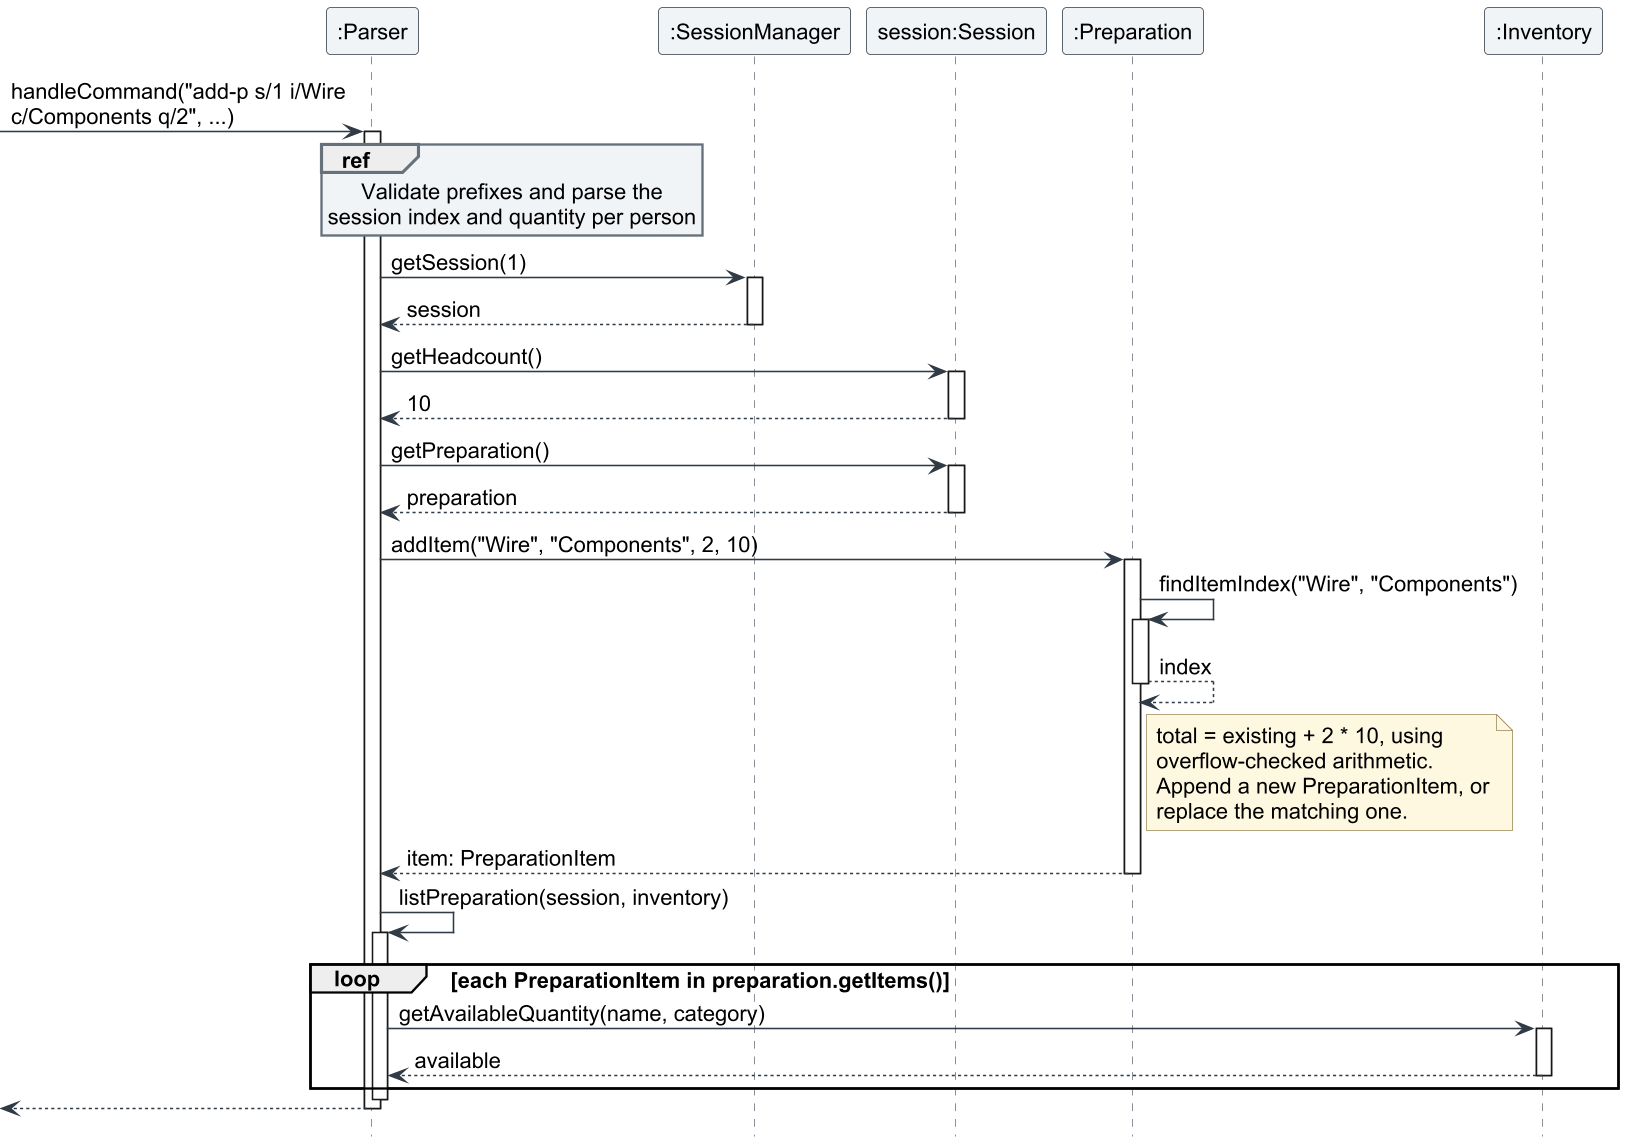
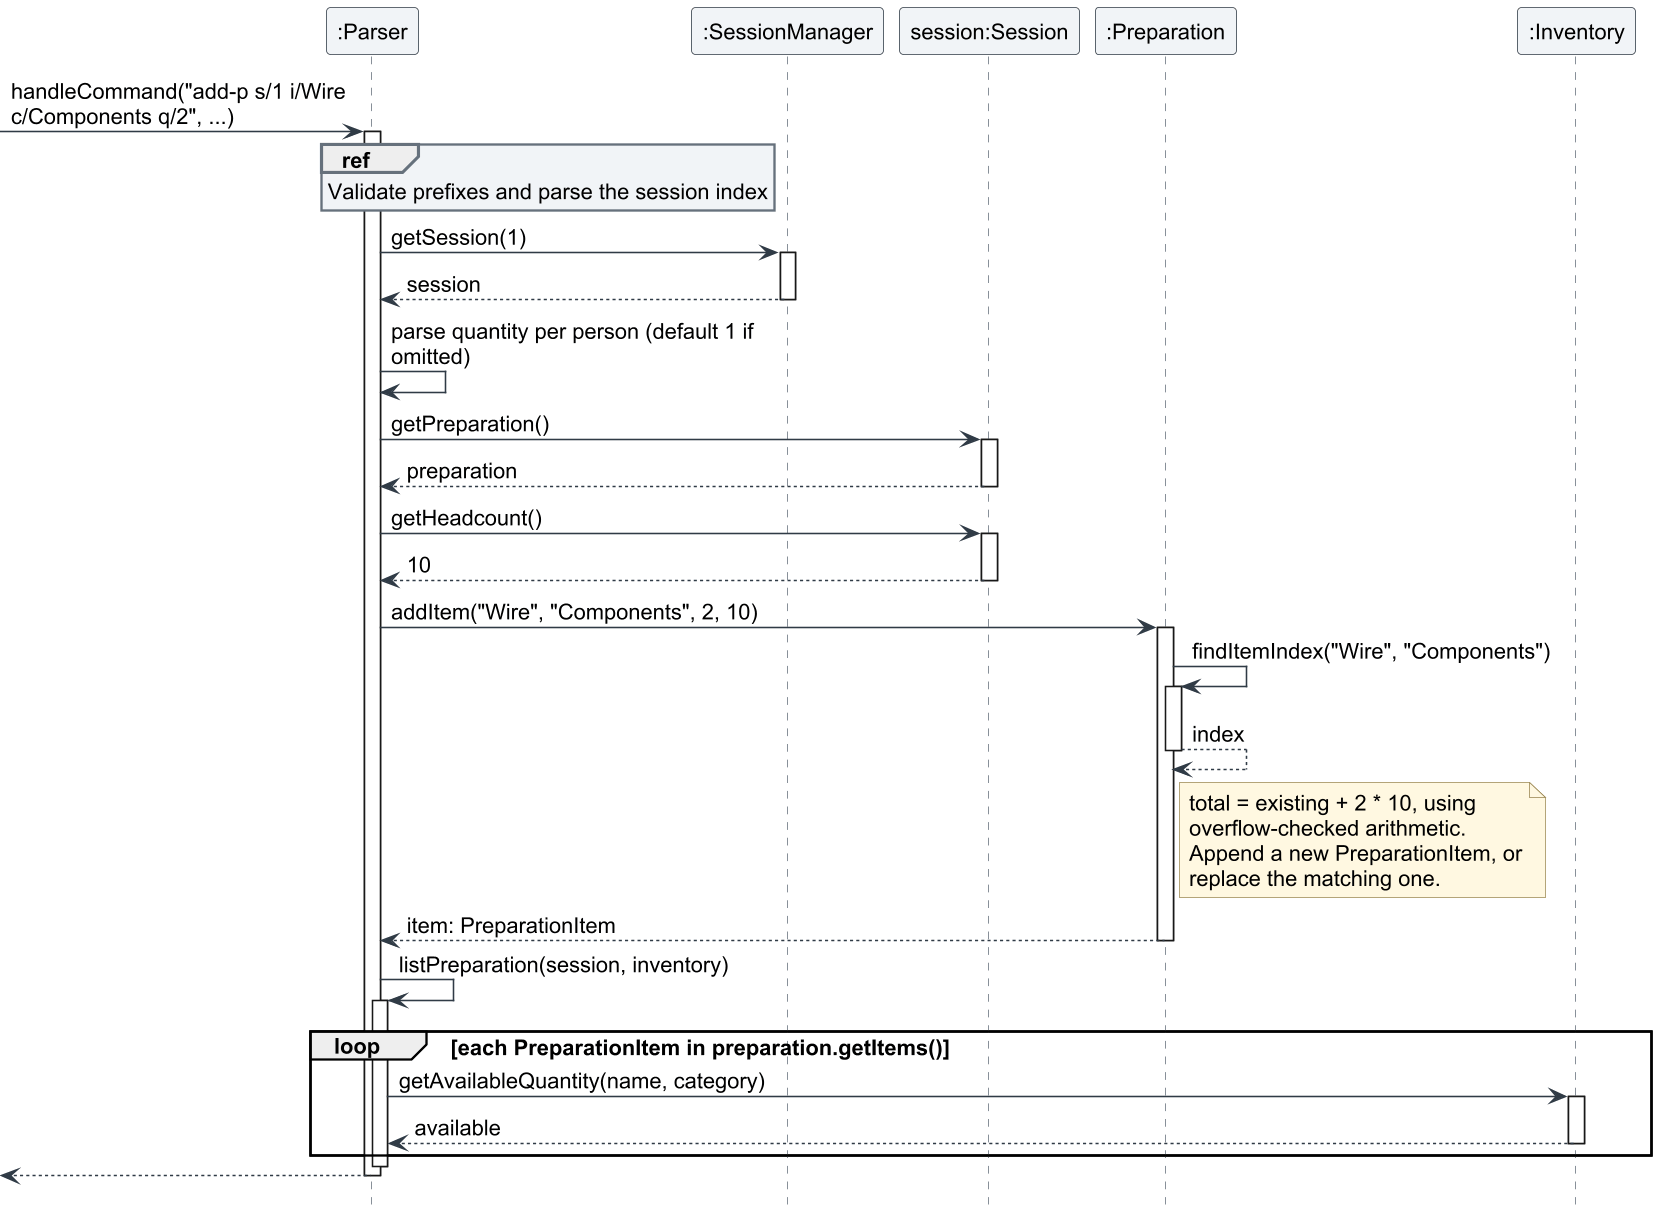
Align guides and diagrams with application behavior
The guides misstate migration support, request mutations, and collection
immutability. Some examples assume empty state despite automatic loading,
and sequence diagrams differ from the implementation's call order.

Clarify persistence, validation, and example prerequisites. Correct the
preparation and loan-return sequences and complete the UML notation so
readers can follow the implemented behavior consistently.

Validate 127 guide links and 25 code references, visually review the
regenerated diagrams, and check the diff for whitespace errors.

diff --git a/docs/DeveloperGuide.md b/docs/DeveloperGuide.md
@@ -162,9 +162,11 @@ The model is composed of domain objects and managers:
 - `AppState` groups the managers, exports snapshots, and restores complete independent model state.
 - `AppSnapshot` and its nested records describe version-2 storage values without retaining mutable model references.
 
-Managers expose operations rather than their mutable internal collections. Where a collection is returned for querying,
-the implementation returns an immutable snapshot. Domain classes maintain invariants such as positive quantities,
-nonblank names, and conflict-free sessions.
+Managers expose operations rather than their mutable internal collections. Query collections are unmodifiable
+list snapshots, so callers cannot add, remove, or reorder the manager's entries through those lists. This does
+not make every contained object immutable: retrieved sessions and requests still expose domain operations.
+Inventory queries copy mutable stock entries, and storage snapshots copy values independently. Domain classes
+maintain invariants such as positive quantities, nonblank names, and conflict-free sessions.
 
 ### 3.5. Storage component
 
@@ -680,16 +682,18 @@ Adding the same inventory entry with `add-i` would be rejected as a duplicate; i
 
 #### 4.3.4. Interactions during preparation addition
 
-The sequence below shows a successful `add-p` command after `Bob` passes the input to `Parser`. The reference frame
-summarises prefix validation and number parsing. Print statements, assertions, and logging are omitted.
+The sequence below shows a successful `add-p` command after `Bob` passes the input to `Parser`. Prefix validation
+and session-index parsing precede session lookup; per-person quantity parsing follows that lookup.
+Print statements, assertions, and logging are omitted.
 
 ![Successful preparation addition sequence diagram](images/preparation-add-sequence.png)
 
 *Figure 5: The headcount is read from the session before `addItem()` is called. After the change, `listPreparation()`
 queries inventory once per required item.*
 
-If the session index is invalid, `getSession()` throws before the preparation is touched. If the quantity is invalid
-or the new total would exceed `Integer.MAX_VALUE`, `addItem()` throws before changing its list. The overflow check uses
+If the session index is invalid, `getSession()` throws before the preparation is touched. The parser rejects invalid
+quantities before calling `addItem()`, which independently validates its inputs and rejects totals above
+`Integer.MAX_VALUE` before changing its list. The overflow check uses
 `Math.multiplyExact()` and `Math.addExact()`, so an oversized request cannot silently wrap around to a negative total.
 
 #### 4.3.5. Calculating availability and shortfalls
@@ -782,13 +786,13 @@ so all implementation diagrams share one style.
 `ContactManager` owns the list and prints confirmations, and `Parser` dispatches the commands. `delete-c` takes a
 single index on the command line, like `delete-s`.
 
-The user guide did not specify the rules below. They are design decisions made when implementing the feature and
-can be changed in `Contact` (validation) or `Parser` (`ADD_CONTACT_PREFIXES`):
+The [User Guide](UserGuide.md#add-a-contact-add-c) describes these contact rules. Their implementation belongs in
+`Contact` (validation) or `Parser` (`ADD_CONTACT_PREFIXES`):
 
 | Decision | Rule | Rationale |
 | --- | --- | --- |
 | Phone format | Digits only, no length check | Accepts local and international numbers. Rejecting separators keeps one canonical form. A length check would wrongly reject some valid numbers. |
-| Email format | Contains `@`, no whitespace | Catches obvious typos without a full email grammar. |
+| Email format | Non-whitespace text on both sides of an `@`, with no whitespace anywhere | Catches obvious typos without a full email grammar or checking address existence. |
 | Duplicate contacts | Allowed | Two suppliers can share a name or switchboard number. Unlike `add-i`, a contact has no natural unique key. |
 | Optional fields | `e/` before `r/`; a supplied value must not be blank | Matches the fixed prefix order used by every other command. |
 | Empty list | `list-c` shows `No contacts saved.` | Matches `list-s`, which shows `No sessions scheduled.` |
@@ -1284,7 +1288,7 @@ marking `fulfilled` deducts the requested quantity.
 | Item category | Not recorded | The requirement lists only student, item, quantity, and deadline. Availability and fulfillment both work across categories with the same item name. |
 | Duplicate requests | Allowed | The same student may request the same item again for a different deadline or quantity. |
 | Status changes | `mark-r` sets `prepared` or `fulfilled`; `fulfilled` is final | A fulfilled request has already changed stock, so allowing it to return to `prepared` would leave status and inventory inconsistent. |
-| Inventory effect | `fulfilled` deducts; other request commands are read-only | Recording a request stays flexible, while handover is explicit and checked against current stock. `delete-r` never restores stock. |
+| Inventory effect | `fulfilled` deducts; other request commands leave stock unchanged | Adding, deleting, and marking prepared still change request state and trigger autosaving. `delete-r` never restores stock. |
 
 #### 4.6.1. Detailed request addition design
 
@@ -1534,7 +1538,7 @@ their original parsing causes for debugging while preserving the existing user-f
 also validate item names, categories, and positive quantities before modifying inventory, even when called directly.
 
 Loan assertions check valid stored records and the exact inventory quantity and active-list size changes for successful
-operations. Stock restoration is checked before removing a loan. Assertions identify internal programming errors;
+operations. Stock restoration is checked before installing a closed loan record. Assertions identify internal programming errors;
 expected invalid commands are always handled by exceptions. Assertion failures are not caught as recoverable user errors.
 Use `java -ea -jar build/libs/bob.jar` for debugging; Gradle tests enable assertions, while normal launch is unchanged.
 

diff --git a/docs/UserGuide.md b/docs/UserGuide.md
@@ -101,6 +101,8 @@ broken-item reports.
   and broken units for `add-b`.
 
 The examples below show command responses without the extra blank line Bob prints after each command.
+When an example calls for a new, empty working directory, launch the built `bob.jar` using its full path from
+that directory. Restarting Bob in an existing working directory reloads its saved data rather than clearing it.
 
 ## Viewing help
 
@@ -239,7 +241,7 @@ order. No arguments are accepted.
 
 **Format:** `list-i`
 
-After the two additions above:
+This example assumes only the two `add-i` examples above have been run, leaving 15 Wire and 1 Oscilloscope.
 
 ```text
 list-i
@@ -499,7 +501,8 @@ required quantities. Use `list-s` to find its index.
 A preparation is a checklist for one session. It compares required totals against current inventory; it does not
 reserve or deduct stock. Items do not have to exist in inventory before they can be included in preparation.
 
-The examples in this section form a separate sequence. Start with a fresh application, enter your name, and run:
+The examples in this section form a separate sequence. Launch Bob from a new, empty working directory so earlier
+saved data is not loaded, enter your name, and run:
 
 ```text
 add-i n/Wire c/Components q/15
@@ -801,7 +804,8 @@ Adds a contact with a name and phone number, and optionally an email and a role 
 - Use `r/` to note why you would contact this person, for example what they repair or supply.
 - `PHONE` must contain digits only, with no length limit. Spaces, `+`, and `-` are not accepted, so write
   `6561234567` rather than `+65 6123 4567`.
-- `EMAIL` is only checked loosely: it must contain an `@` and no spaces. It is not checked against real addresses.
+- `EMAIL` is only checked loosely: it must have non-whitespace text on both sides of an `@`, with no whitespace
+  anywhere in the value. It is not checked against real addresses.
 - A value you include must not be blank. Leave the whole prefix out instead.
 - Duplicates are allowed. Adding the same name or number twice creates two separate contacts.
 - A word in a value that is a single letter followed by `/` (for example `a/b`) is read as a new prefix, so the
@@ -900,7 +904,7 @@ adding or deleting a supplier contact does not change a loan's borrower details.
 - Every successful command creates a separate record, including repeated loans to the same borrower.
 - Rejected commands leave inventory, loans, and supplier contacts unchanged.
 
-In a fresh application, enter:
+For this separate example, launch Bob from a new, empty working directory, enter your name, and run:
 
 ```text
 add-i n/Multimeter c/Equipment q/5
@@ -1115,6 +1119,11 @@ retry saving. Closing or terminating the process while this warning remains can 
 Completed saves use temporary files and atomic replacement to avoid partially written main snapshots. This
 does not guarantee recovery from every disk or power failure. Back up the `data` directory separately if needed.
 
+Bob also reads version-1 saves from earlier releases. It converts their active loans into history records in
+memory; earlier returns and corrections cannot be recovered because version 1 did not retain them. Imported
+recording dates appear as `Unknown`. The next successful data-changing command saves the complete state in
+version 2. Viewing data and exiting without changes leave a valid version-1 main file unchanged.
+
 ## Broken-item tracking
 
 Record damaged inventory units, their faults, the date reported, and an optional maintenance contact.
@@ -1126,7 +1135,8 @@ Units on an active loan are also excluded from available stock. If a loan is ret
 record its full return with `return INDEX`, then report the damaged quantity with `add-b`.
 Partial loan returns are not supported.
 
-The examples below form a separate sequence. In a fresh application, enter your name, then run:
+The examples below form a separate sequence. Launch Bob from a new, empty working directory, enter your name,
+then run:
 
 ```text
 add-i n/Meter c/Equipment q/10
@@ -1301,8 +1311,9 @@ If the JAR cannot be found, run `shadowJar` from the project root and use the ex
 
 ## Current limitations
 
-- Storage is local to one working directory and one running process. There is no cloud sync, automatic format
-  migration, or import/export command. Unsaved changes and the newest change after backup recovery can be lost.
+- Storage is local to one working directory and one running process. There is no cloud sync or import/export
+  command. Only version-1 and version-2 saves are supported. Unsaved changes and the newest change after backup
+  recovery can be lost.
 - `todo` and `done` are not supported commands. Use `help` for a list of commands and `Bye` to exit.
 - Inventory items and sessions cannot be edited in place. There is no command to top up an existing inventory item.
 - Preparation does not reserve inventory or combine requirements across sessions. Two sessions can each appear to
